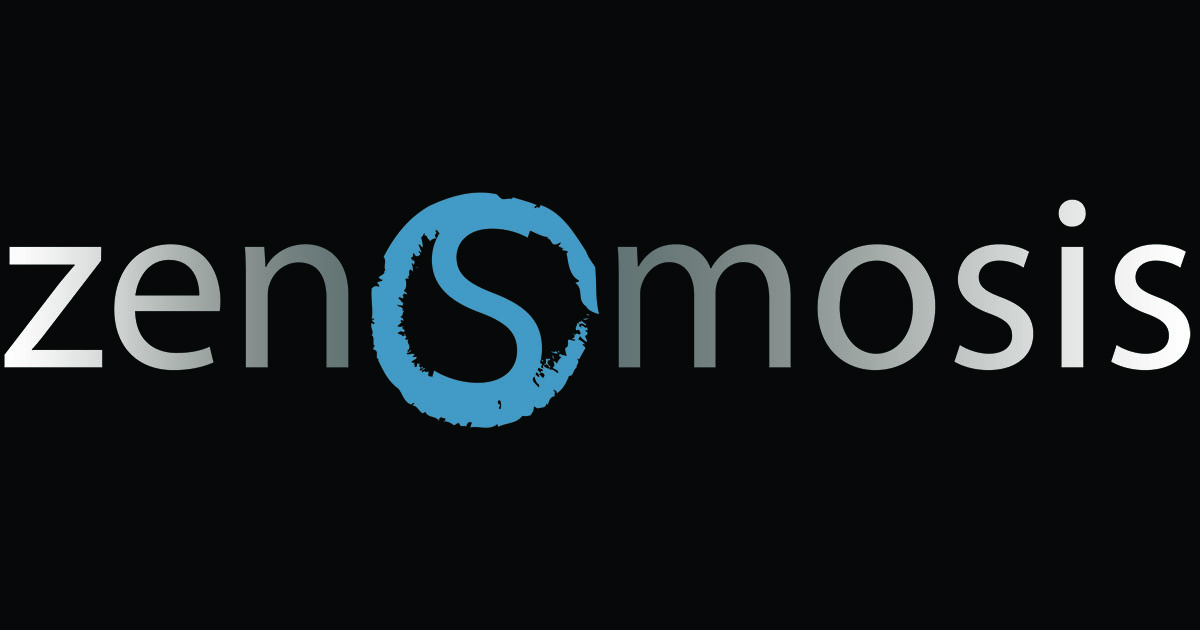
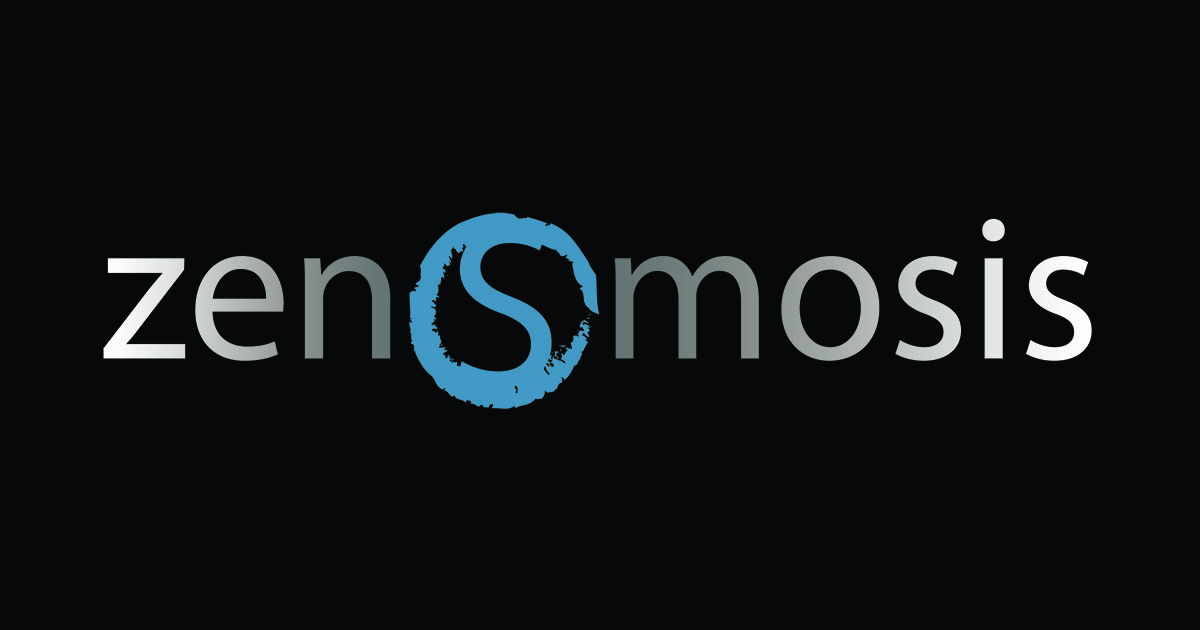
Improve site metadata (#11)
* Add margin to sides of logo

* Improve site metadata

Changed region(s): [[0.0, 0.3016, 1.0, 0.6937], [0.8633, 0.3016, 0.925, 0.3619]]

diff --git a/src/utils/structuredData.ts b/src/utils/structuredData.ts
@@ -1,21 +1,68 @@
 import { projects } from '../projects'
 import { appConfig } from '../config/appConfig'
+import { getBaseUrl, toAbsoluteUrl } from './urlHelpers'
 
 export function generateStructuredData() {
   const { site, github, social, crates } = appConfig
-  const baseUrl = site.baseUrl.replace(/\/$/, '')
+  const baseUrl = getBaseUrl()
   const logoUrl = `${baseUrl}/assets/zenOSmosis-logo-oNQJHx0N.svg`
-  const authorId = `${baseUrl}/${site.authorSlug}`
+  const socialImageUrl = toAbsoluteUrl(site.socialImage)
+  const authorId = `${baseUrl}/#person`
+  const organizationId = `${baseUrl}/#organization`
+  const websiteId = `${baseUrl}/#website`
 
   return {
     '@context': 'https://schema.org',
     '@graph': [
+      // WebSite node
+      {
+        '@type': 'WebSite',
+        '@id': websiteId,
+        url: `${baseUrl}/`,
+        name: site.name,
+        description: site.description,
+        publisher: { '@id': organizationId },
+        inLanguage: site.languages,
+      },
+      // WebPage node (main page)
+      {
+        '@type': 'WebPage',
+        '@id': `${baseUrl}/#webpage`,
+        url: `${baseUrl}/`,
+        name: site.title,
+        description: site.description,
+        isPartOf: { '@id': websiteId },
+        about: { '@id': organizationId },
+        primaryImageOfPage: {
+          '@type': 'ImageObject',
+          '@id': `${socialImageUrl}#image`,
+          url: socialImageUrl,
+          width: 1200,
+          height: 630,
+          caption: site.socialImageAlt,
+        },
+        inLanguage: site.languages,
+      },
+      // Organization node
       {
         '@type': 'Organization',
-        '@id': baseUrl,
+        '@id': organizationId,
         name: site.name,
         url: `${baseUrl}/`,
-        logo: logoUrl,
+        description: site.organizationDescription,
+        logo: {
+          '@type': 'ImageObject',
+          '@id': `${logoUrl}#logo`,
+          url: logoUrl,
+          caption: `${site.name} logo`,
+        },
+        image: {
+          '@type': 'ImageObject',
+          '@id': `${socialImageUrl}#image`,
+          url: socialImageUrl,
+          width: 1200,
+          height: 630,
+        },
         sameAs: [
           `https://github.com/${github.username}`,
           `https://www.linkedin.com/in/${social.linkedinSlug}`,
@@ -24,21 +71,33 @@ export function generateStructuredData() {
         ],
         founder: { '@id': authorId },
         owns: projects.map((project) => ({
-          '@id': project.bookUrl,
+          '@id': `${project.bookUrl}#software`,
         })),
         contactPoint: {
           '@type': 'ContactPoint',
           telephone: site.contactPhone,
           email: site.contactEmail,
           contactType: 'Customer Service',
+          areaServed: site.areaServed,
+          availableLanguage: site.languages,
         },
+        foundingDate: site.foundingDate,
+        areaServed: site.areaServed,
       },
+      // Person node
       {
         '@type': 'Person',
         '@id': authorId,
         name: site.author,
         url: `${baseUrl}/`,
-        jobTitle: 'Software Engineer',
+        jobTitle: site.authorJobTitle,
+        description: site.authorDescription,
+        worksFor: { '@id': organizationId },
+        image: {
+          '@type': 'ImageObject',
+          '@id': `${socialImageUrl}#image`,
+          url: socialImageUrl,
+        },
         sameAs: [
           `https://github.com/${github.username}`,
           `https://www.linkedin.com/in/${social.linkedinSlug}`,
@@ -48,16 +107,21 @@ export function generateStructuredData() {
         knowsAbout: Array.from(
           new Set(projects.flatMap((p) => p.technologies))
         ),
+        knowsLanguage: site.languages,
       },
+      // SoftwareSourceCode nodes
       ...projects.map((project) => ({
         '@type': 'SoftwareSourceCode',
-        '@id': project.bookUrl,
+        '@id': `${project.bookUrl}#software`,
         name: project.name,
         description: project.description,
         url: project.bookUrl,
         programmingLanguage: project.technologies,
         author: { '@id': authorId },
-        sourceOrganization: { '@id': baseUrl },
+        sourceOrganization: { '@id': organizationId },
+        maintainer: { '@id': authorId },
+        isPartOf: { '@id': websiteId },
+        inLanguage: site.languages,
       })),
     ],
   }

diff --git a/src/config/appConfig.ts b/src/config/appConfig.ts
@@ -1,6 +1,6 @@
 /**
  * Central application configuration. All tunable values that influence API requests,
- * caching behaviour, and feature limits live here so the entire app can share the
+ * caching behavior, and feature limits live here so the entire app can share the
  * same source of truth. This makes it simple to reuse the approach in other projects
  * and avoids scattering hard-coded values throughout the codebase.
  */
@@ -11,13 +11,45 @@ export const appConfig = {
     blogPath: 'https://blog.zenosmosis.com',
     contactEmail: 'info@zenosmosis.com',
     contactPhone: '+1-415-562-7140',
-    title: 'zenOSmosis - Engineering Craftsmanship',
-    description: 'Open-source craft for engineers who care about the details. Rust tooling, databases, infrastructure projects, and comprehensive documentation by Jeremy Harris.',
-    keywords: 'Rust, open source, engineering, databases, infrastructure, SIMD, SQL, MQTT, Docker, mdBook documentation',
+
+    // Keep titles under ~55–60 chars; use the same across <title>, og:title, twitter:title.
+    // A: broader positioning
+    title: 'zenOSmosis — High-Performance Data Systems',
+    // B (alt you can A/B later): 'zenOSmosis — Engineering Craftsmanship'
+
+    // Use two descriptions: one longer for SEO, one short for social cards.
+    // ~150–160 chars helps SEO snippets; ~90–110 chars is ideal for social.
+    description:
+      'Open-source data systems and tooling: storage engines, SQL, infrastructure, and clear documentation',
+    socialDescription:
+      'Open-source data systems and tooling: storage, SQL, and infra',
+
+    // Keep this lean; prioritize intent over a long comma soup.
+    keywords:
+      'Rust, data systems, storage engine, SQL, Apache Arrow, performance, infrastructure, Docker, MQTT, documentation',
+
+    // Author credit (used in meta=author if you surface it)
     author: 'Jeremy Harris',
     authorSlug: 'jeremy-harris',
+
+    // Use an absolute URL so all platforms resolve it reliably.
     socialImage: '/social/zenOSmosis-card-1200x630.jpg',
-    socialImageAlt: 'zenOSmosis — Open-source craft for engineers who care about the details.',
+    socialImageAlt: 'zenOSmosis — Open-source Rust data systems and tools',
+
+    // (Optional but useful if you wire it into meta tags)
+    siteName: 'zenOSmosis',
+    locale: 'en_US',
+    twitterHandle: '', // e.g., '@yourhandle' if you get one later
+    
+    // Organization details for structured data
+    organizationDescription: 'zenOSmosis develops high-performance open-source data systems, storage engines, SQL tooling, and infrastructure projects with comprehensive technical documentation.',
+    foundingDate: '2010-07-15',
+    
+    // Person/author details for structured data
+    authorJobTitle: 'Software Engineer & Systems Architect',
+    authorDescription: 'Software engineer specializing in high-performance data systems, storage engines, and infrastructure tooling.',
+    languages: ['en'],
+    areaServed: 'Worldwide',
   },
   github: {
     username: 'jzombie',

diff --git a/src/utils/urlHelpers.ts b/src/utils/urlHelpers.ts
@@ -1,0 +1,26 @@
+import { appConfig } from '../config/appConfig'
+
+/**
+ * Returns the base URL without trailing slash for path construction
+ */
+export function getBaseUrl(): string {
+  const { baseUrl } = appConfig.site
+  return baseUrl.endsWith('/') ? baseUrl.slice(0, -1) : baseUrl
+}
+
+/**
+ * Returns the base URL with trailing slash for canonical/og:url usage
+ */
+export function getCanonicalUrl(): string {
+  return `${getBaseUrl()}/`
+}
+
+/**
+ * Converts a potentially relative URL to absolute using the site's base URL
+ */
+export function toAbsoluteUrl(url: string): string {
+  if (url.startsWith('http://') || url.startsWith('https://')) {
+    return url
+  }
+  return `${getBaseUrl()}${url}`
+}

diff --git a/src/main-ssr.tsx b/src/main-ssr.tsx
@@ -12,9 +12,10 @@ import App from './App'
 import './index.css'
 import { appConfig } from './config/appConfig'
 import { generateStructuredData } from './utils/structuredData'
+import { getBaseUrl, getCanonicalUrl, toAbsoluteUrl } from './utils/urlHelpers'
 
 export function renderSSRToHTML(): string {
   return ReactDOMServer.renderToString(<App />)
 }
 
-export { appConfig, generateStructuredData }
+export { appConfig, generateStructuredData, getBaseUrl, getCanonicalUrl, toAbsoluteUrl }
